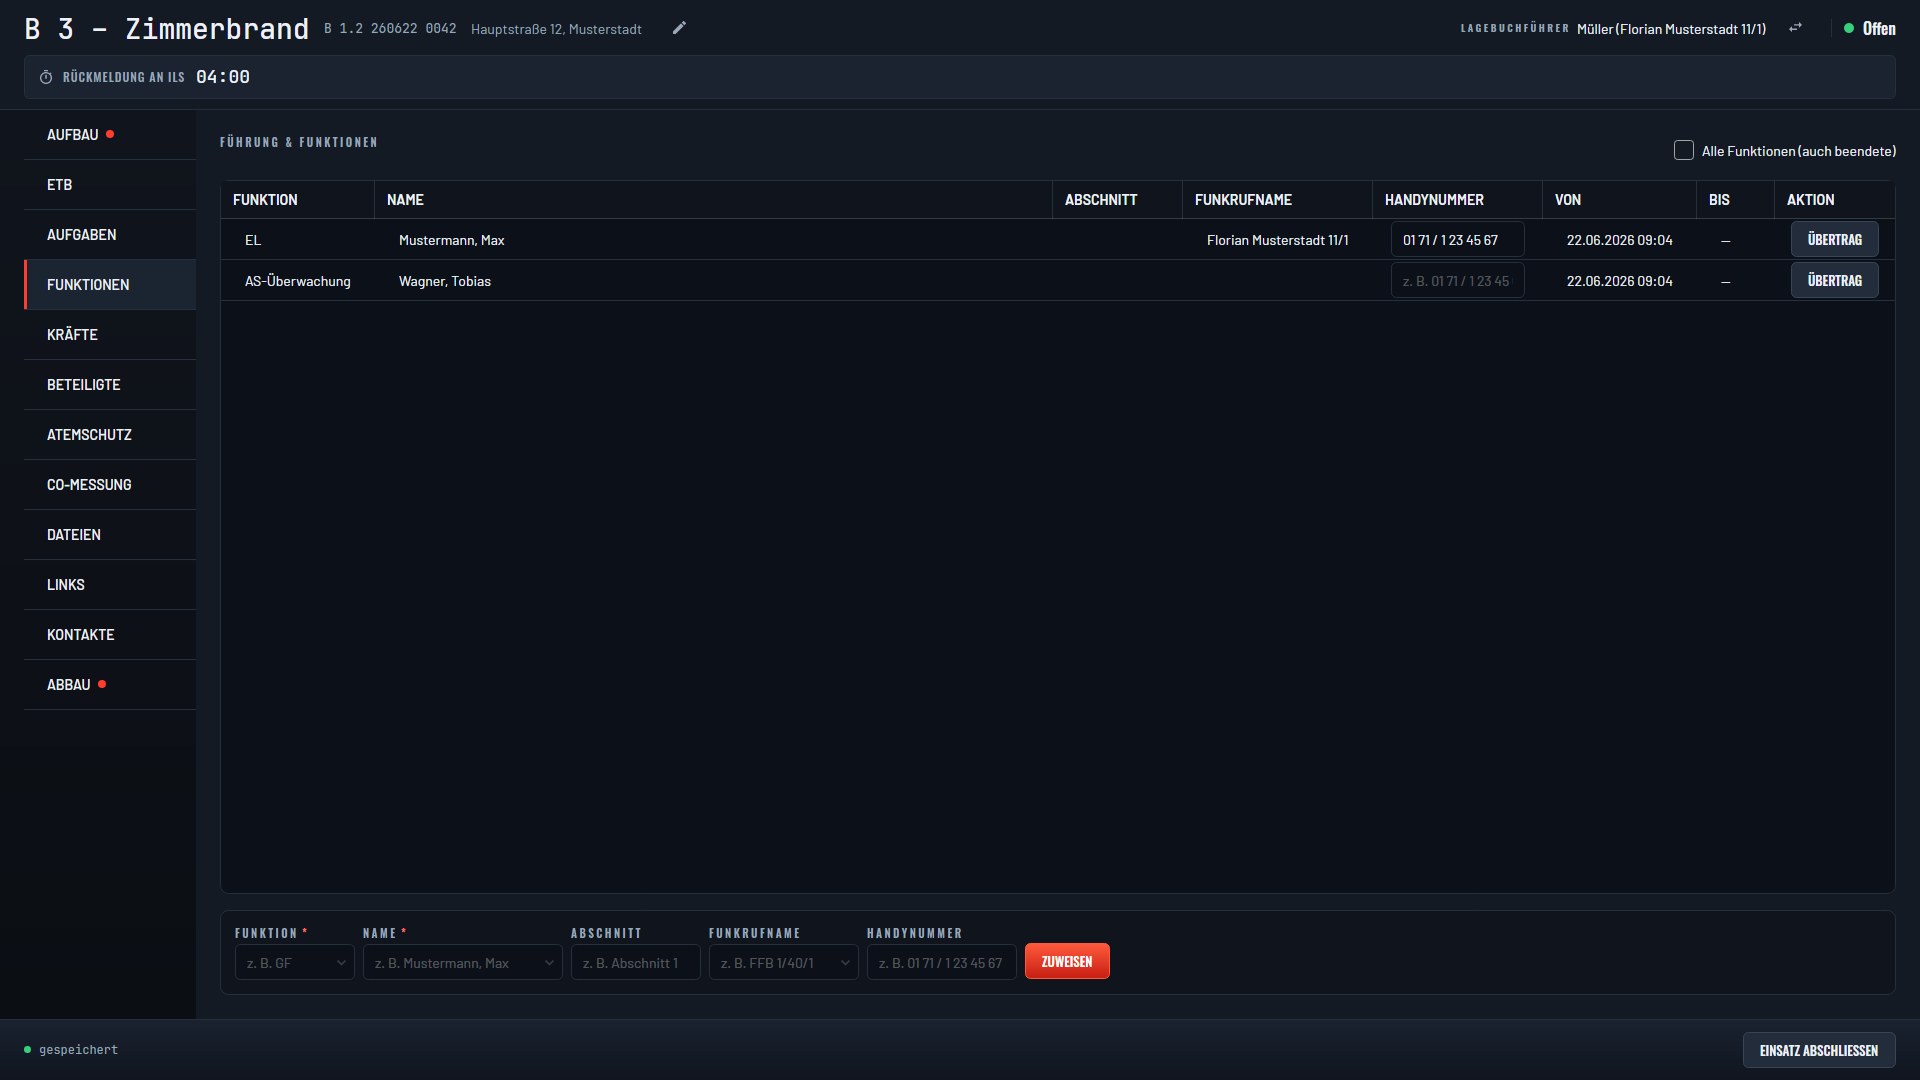
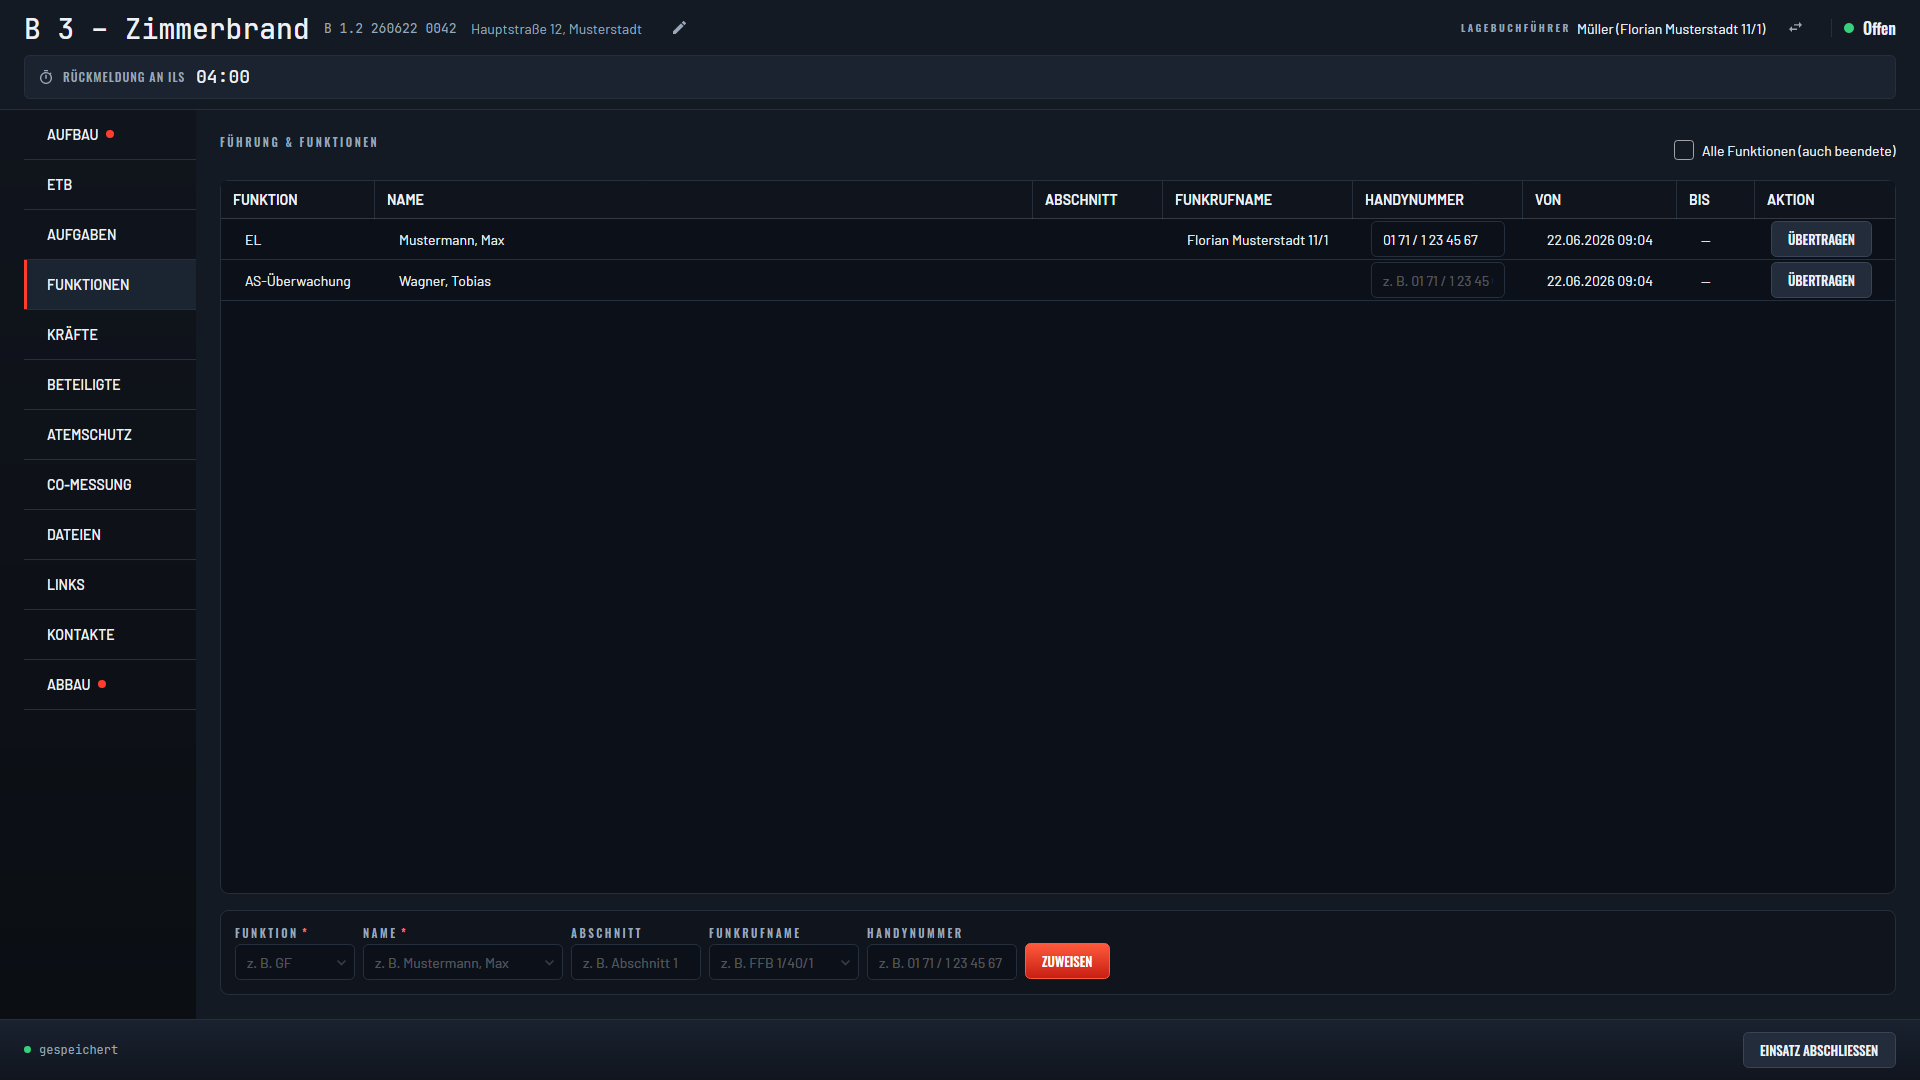
docs: capture Kontakte and Beteiligte in the demo screenshots and GIF (#508)
The demo walkthrough now visits the KONTAKTE and BETEILIGTE tabs, so the
README grid and the docs/demo/einsatz-flow.gif story gain both screens
(8 -> 10 frames). The walkthrough renumbers its steps and seeds the
incident with three fictional Beteiligte matching the journal and the CO
search. Regenerates docs/screenshots and docs/play/screenshots at 13
frames on current main, which also picks up the Funktionen frame #504
changed after #505 regenerated the set.

diff --git a/tests/LageBuch.Acceptance.Tests/DemoFlowRenderTests.cs b/tests/LageBuch.Acceptance.Tests/DemoFlowRenderTests.cs
@@ -228,12 +228,17 @@ public class DemoFlowRenderTests
         Assert.Equal(4, vm.Forces.Forces.Count);
         Capture(window, "kraefte.png");
 
-        // 5) Funktionen.
+        // 5) Kontakte: the roster the demo Stammdaten describe, Funkrufname included.
+        SelectTab(window, "KONTAKTE");
+        Assert.Equal(6, vm.Contacts.VisibleContacts.Count);
+        Capture(window, "kontakte.png");
+
+        // 6) Funktionen.
         SelectTab(window, "FUNKTIONEN");
         Assert.Equal(2, vm.Roles.Roles.Count);
         Capture(window, "funktionen.png");
 
-        // 6) Atemschutz: Trupp 1 started at t0 and past its 30 minutes (Rückzugsalarm), Trupp 2
+        // 7) Atemschutz: Trupp 1 started at t0 and past its 30 minutes (Rückzugsalarm), Trupp 2
         //    started 20 minutes later and still counting down, Trupp 3 waiting. Driven through the
         //    ScbaViewModel so the rows carry the same live state the operator sees.
         SelectTab(window, "ATEMSCHUTZ");
@@ -280,7 +285,7 @@ public class DemoFlowRenderTests
         Assert.Equal("kein Sicherheitstrupp", vm.Scba.Trupps[0].SafetyTruppHint);
         Capture(window, "atemschutz.png");
 
-        // 7) Aufgaben: one done, one overdue, one open.
+        // 8) Aufgaben: one done, one overdue, one open.
         session.AddTask("Nachbarwohnung 2. OG links kontrollieren", Lf2, TaskImportance.High, TaskUrgency.High, 10);
         session.AddTask("Stromversorgung abschalten lassen (Stadtwerke)", "Mustermann, Max", TaskImportance.High, TaskUrgency.Medium, 45);
         session.AddTask("Presse-Info vorbereiten", null, TaskImportance.Low, TaskUrgency.Low, 60);
@@ -292,7 +297,7 @@ public class DemoFlowRenderTests
         Assert.Contains(vm.Tasks.Rows, r => r.IsOverdue);
         Capture(window, "aufgaben.png");
 
-        // 8) CO-Messung: the search grid for the building, floor by floor.
+        // 9) CO-Messung: the search grid for the building, floor by floor.
         session.AddCoBuilding("Hauptstraße 12", 2, 2); // EG + 2 OG, two Wohnungen each
         var haus = session.Incident.Buildings[0].Id;
         session.RecordCoValue(haus, 2, 1, 120);
@@ -309,7 +314,16 @@ public class DemoFlowRenderTests
         Assert.NotEmpty(vm.CoMessprotokoll.MatrixRows);
         Capture(window, "co-messung.png");
 
-        // 9) PDF export: the section picker that precedes the report.
+        // 10) Beteiligte: the people this Einsatz touches, the same fictional house the CO search
+        //     just walked.
+        session.AddInvolvedParty("Musterfrau, Maria", "01 71 / 8 76 54 32", "Bewohnerin 2. OG, über DLK gerettet, Übergabe an RD");
+        session.AddInvolvedParty("Mustermann, Otto", "01 71 / 9 87 65 43", "Nachbar, hat die Feuerwehr alarmiert");
+        session.AddInvolvedParty("POK Beispiel", null, "Polizei vor Ort, Streife 12/3");
+        SelectTab(window, "BETEILIGTE");
+        Assert.Equal(3, session.Incident.InvolvedParties.Count);
+        Capture(window, "beteiligte.png");
+
+        // 11) PDF export: the section picker that precedes the report.
         SelectTab(window, "ETB");
         vm.ExportPdfCommand.Execute(null);
         Dispatcher.UIThread.RunJobs();

diff --git a/README.md b/README.md
@@ -198,8 +198,9 @@ Alle Screenshots zeigen fiktive Daten.
 
 | | | | |
 |---|---|---|---|
-| ![Startseite](docs/screenshots/home.png) | ![ETB](docs/screenshots/etb.png) | ![Kräfte](docs/screenshots/kraefte.png) | ![Aufgaben](docs/screenshots/aufgaben.png) |
-| ![Atemschutz](docs/screenshots/atemschutz.png) | ![CO-Messung](docs/screenshots/co-messung.png) | ![Checkliste](docs/screenshots/checkliste.png) | ![Stammdaten](docs/screenshots/stammdaten-editor.png) |
+| ![Startseite](docs/screenshots/home.png) | ![ETB](docs/screenshots/etb.png) | ![Kräfte](docs/screenshots/kraefte.png) | ![Kontakte](docs/screenshots/kontakte.png) |
+| ![Beteiligte](docs/screenshots/beteiligte.png) | ![Aufgaben](docs/screenshots/aufgaben.png) | ![Atemschutz](docs/screenshots/atemschutz.png) | ![CO-Messung](docs/screenshots/co-messung.png) |
+| ![Checkliste](docs/screenshots/checkliste.png) | ![Stammdaten](docs/screenshots/stammdaten-editor.png) | | |
 
 ## Mitmachen & Kontakt
 
